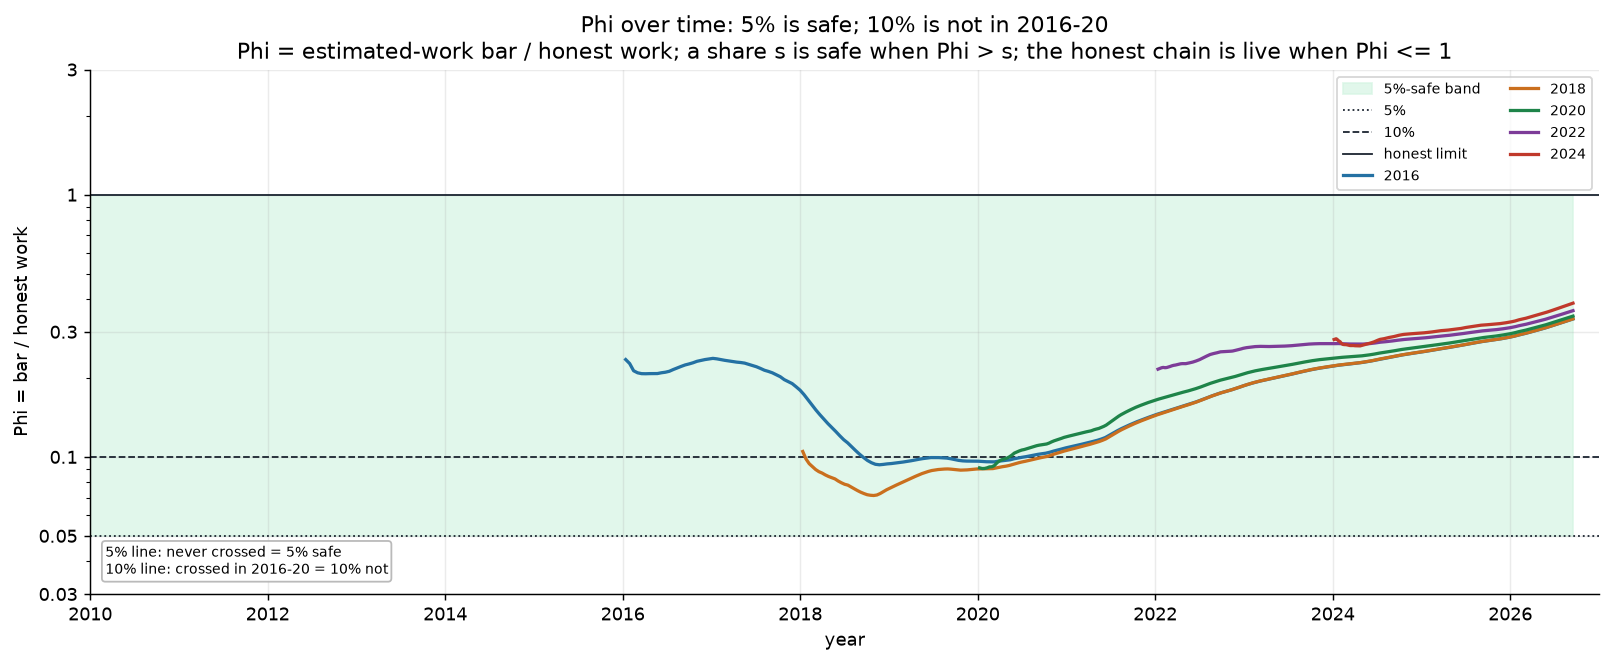
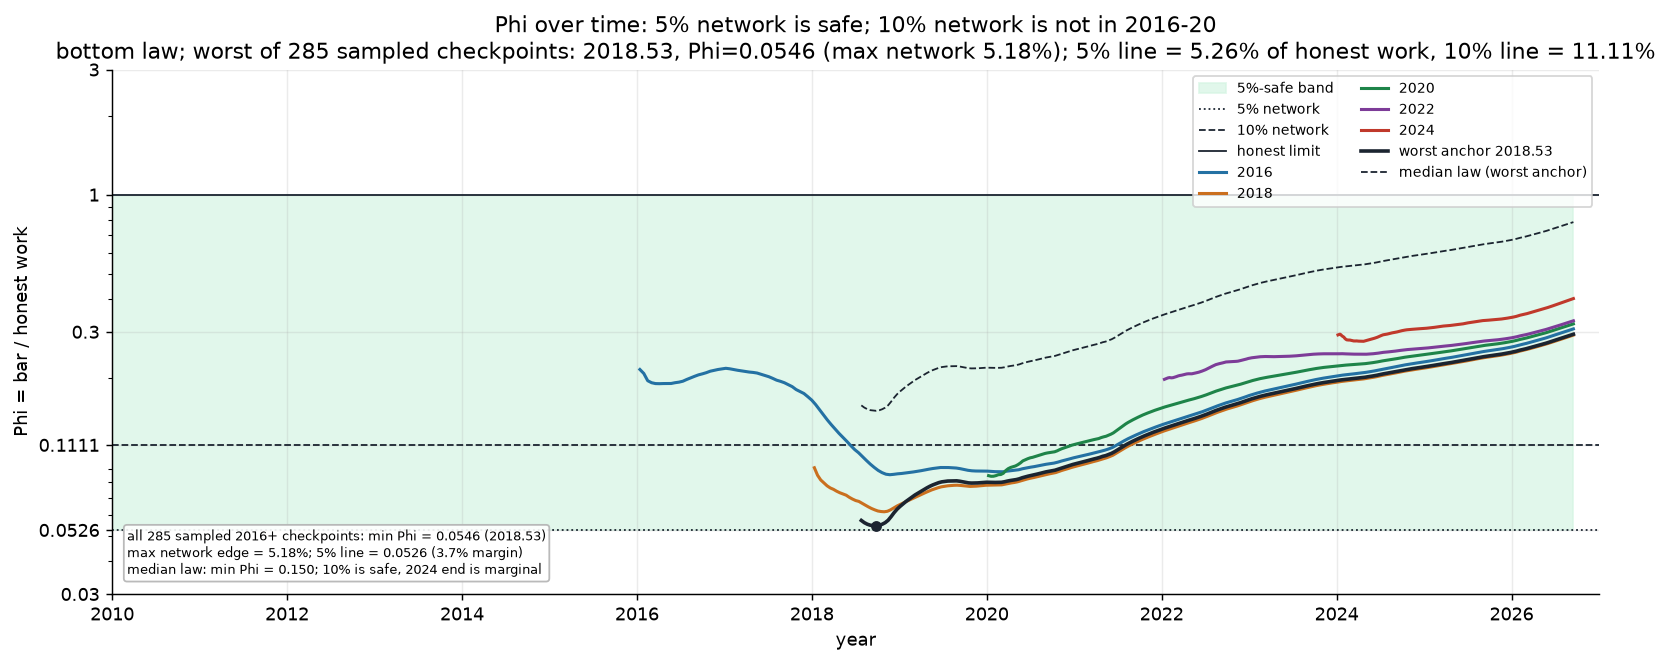
Rewrite around the 5% power-law estimated-work rule
- bar(T)=max(100, r0*ĥ(T)); Phi=bar/honest
- all-checkpoint 2016+ scan: 5% network is safe with a 3.7% margin;
  6% is not safe; 10% is bottom-law only; median-law sensitivity included
- 5% energy/opportunity cost and power-law hashrate/history figures
- ASCII setup; simplify README/research; remove obsolete experiments/figures

diff --git a/research/estimated_work_history.py b/research/estimated_work_history.py
@@ -1,8 +1,12 @@
 #!/usr/bin/env python3
 """Phi over the whole history from selected checkpoints.
 
-The 5%-safe band is 0.05 < Phi <= 1.  The 5% path stays inside it; the 10%
-path dips below 0.10 in 2018-2020.
+The network-share lines are honest-work lines:
+    s network -> s/(1-s) of honest work.
+So 5% network = 0.0526 and 10% network = 0.1111 on this axis.
+
+The thin dark line is the worst of all sampled 2016+ checkpoints; the dashed
+line is the median-law version of that worst anchor.
 
 Outputs figures/estimated_work_history.png.
 """
@@ -13,6 +17,8 @@ from figs import BLUE, GREEN, INK, ORANGE, PURPLE, RED
 NOW = M.BTC.t1
 POINTS = ((2016, BLUE), (2018, ORANGE), (2020, GREEN),
           (2022, PURPLE), (2024, RED))
+H5 = M.network_share_to_honest(0.05)
+H10 = M.network_share_to_honest(0.10)
 
 
 def anchor(year):
@@ -25,38 +31,72 @@ def year_of(t):
     return 2009 + M.BTC.x(t)
 
 
+def all_scan():
+    """Worst Phi and its anchor across all sampled 2016+ checkpoints."""
+    best = (float("inf"), None, None)
+    for r in M.BTC.rows:
+        t0 = r[1]
+        if year_of(t0) < 2016 or t0 >= NOW - 86400:
+            continue
+        for k in range(1, 80):
+            T = (NOW - t0) * k / 80
+            p = M.phi_est(t0, T)
+            if p < best[0]:
+                best = (p, t0, T)
+    return best
+
+
 def fig():
+    worst, wt0, wT = all_scan()
     fig, ax = figs.plt.subplots(figsize=(12.5, 5.2))
-    ax.fill_between([year_of(t) for t in M.BTC.t], 0.05, 1.0,
+    ax.fill_between([year_of(t) for t in M.BTC.t], H5, 1.0,
                     color=figs.SAFE, alpha=0.7, zorder=0,
                     label="5%-safe band")
-    ax.axhline(0.05, color=INK, lw=1.0, ls=":", label="5%")
-    ax.axhline(0.10, color=INK, lw=1.0, ls="--", label="10%")
+    ax.axhline(H5, color=INK, lw=1.0, ls=":", label="5% network")
+    ax.axhline(H10, color=INK, lw=1.0, ls="--", label="10% network")
     ax.axhline(1.0, color=INK, lw=1.0, ls="-", label="honest limit")
 
     for yr, c in POINTS:
         t0 = anchor(yr)
-        Ts = [k * (NOW - t0) / 240 for k in range(0, 241)]
+        Ts = [k * (NOW - t0) / 240 for k in range(1, 241)]
         xs = [year_of(t0 + T) for T in Ts]
         ys = [M.phi_est(t0, T) for T in Ts]
-        ax.plot(xs, ys, color=c, lw=1.8, zorder=3, label=str(yr))
+        ax.plot(xs, ys, color=c, lw=1.7, zorder=3, label=str(yr))
+
+    # worst sampled anchor
+    Ts = [k * (NOW - wt0) / 240 for k in range(1, 241)]
+    ax.plot([year_of(wt0 + T) for T in Ts],
+            [M.phi_est(wt0, T) for T in Ts],
+            color=INK, lw=2.0, zorder=4,
+            label=f"worst anchor {year_of(wt0):.2f}")
+    ax.plot([year_of(wt0 + wT)], [worst], "o", color=INK, ms=5, zorder=6)
+    # median-law version of the same anchor
+    ax.plot([year_of(wt0 + T) for T in Ts],
+            [M.phi_est_median(wt0, T) for T in Ts],
+            color=INK, lw=1.0, ls="--", zorder=2,
+            label="median law (worst anchor)")
 
     ax.set_yscale("log")
     ax.set_ylim(0.03, 3)
-    ax.set_yticks([0.03, 0.05, 0.1, 0.3, 1, 3])
-    ax.set_yticklabels(["0.03", "0.05", "0.1", "0.3", "1", "3"])
+    ax.set_yticks([0.03, H5, H10, 0.3, 1, 3])
+    ax.set_yticklabels(["0.03", "0.0526", "0.1111", "0.3", "1", "3"])
     ax.set_xlim(2010, 2027)
     ax.set_xlabel("year")
     ax.set_ylabel("Phi = bar / honest work")
-    ax.set_title("Phi over time: 5% is safe; 10% is not in 2016-20\n"
-                 "Phi = estimated-work bar / honest work; a share s is safe when Phi > s; "
-                 "the honest chain is live when Phi <= 1")
-    ax.legend(fontsize=8, loc="upper right", ncol=2)
+    ax.set_title("Phi over time: 5% network is safe; 10% network is not in 2016-20\n"
+                 "bottom law; worst of 285 sampled checkpoints: "
+                 f"{year_of(wt0):.2f}, Phi={worst:.4f} "
+                 f"(max network {100*worst/(1+worst):.2f}%); "
+                 "5% line = 5.26% of honest work, 10% line = 11.11%")
+    ax.legend(fontsize=7.5, loc="upper right", ncol=2)
     ax.grid(alpha=0.25)
     ax.text(0.01, 0.03,
-            "5% line: never crossed = 5% safe\n"
-            "10% line: crossed in 2016-20 = 10% not",
-            transform=ax.transAxes, va="bottom", fontsize=7.5,
+            f"all 285 sampled 2016+ checkpoints: min Phi = {worst:.4f} "
+            f"({year_of(wt0):.2f})\n"
+            f"max network edge = {100*worst/(1+worst):.2f}%; "
+            "5% line = 0.0526 (3.7% margin)\n"
+            "median law: min Phi = 0.150; 10% is safe, 2024 end is marginal",
+            transform=ax.transAxes, va="bottom", fontsize=7.2,
             bbox=dict(boxstyle="round,pad=0.25", fc="white", ec="0.7",
                       alpha=0.9))
     figs.save(fig, "estimated_work_history.png")

diff --git a/research/cost_5pct.py b/research/cost_5pct.py
@@ -1,15 +1,23 @@
 #!/usr/bin/env python3
-"""What a 5% attacker costs per year: work cost + foregone profit."""
+"""5% attacker: energy cost vs block rewards foregone.
+
+Assumptions: 25 J/TH and $0.05/kWh, capex excluded.  The 5% share of the
+network's annual energy is the work cost; the 5% share of annual block rewards
+is the opportunity cost.  The difference is the profit foregone.  The bar
+requires more than 5% of network work, so this 5% spend cannot create it.
+"""
 import bisect
 import json
 
 import model as M
 import figs
-from figs import GREEN, INK, ORANGE
+from figs import GREEN, ORANGE
 
 Y = M.YEAR
 NOW = M.BTC.t1
 SHARE = 0.05
+J_PER_TH = 25.0
+USD_PER_KWH = 0.05
 PRICES = [(p["x"], p["y"]) for p in
           json.load(open("data/btc_price_raw.json"))["values"] if p["y"] > 0]
 PT = [p[0] for p in PRICES]
@@ -37,53 +45,48 @@ def price_at(t):
     return PRICES[i][1]
 
 
-def hp(t):
-    return reward(t) * price_at(t) / M.BTC.w(t)
-
-
-def annual_work_cost(t0):
-    """5% of the network's annual hash cost at the cheapest hash price."""
-    ts = [t0 + i * 86400 for i in range(0, int((NOW - t0) / 86400) + 1)] + [NOW]
-    mn = min(hp(t) for t in ts)
-    return SHARE * (M.BTC.w(t0) / 600.0) * Y * mn / 1e9
-
-
-def annual_rewards(t0):
-    """5% of the block rewards at the checkpoint, USD/year."""
-    return SHARE * reward(t0) * price_at(t0) * 144 * 365 / 1e9
+def annual_stats(t0):
+    t1 = min(t0 + Y, NOW)
+    n = 80
+    ts = [t0 + k * (t1 - t0) / n for k in range(n + 1)]
+    h = sum(M.actual_hashrate(t) for t in ts) / len(ts)
+    # 1 EH/s = 1e6 TH/s; 25 J/TH = 25 MW per EH/s; 8760 h; $0.05/kWh
+    energy = SHARE * h * 1e6 * J_PER_TH * 8760.0 / 1000.0 * USD_PER_KWH / 1e9
+    rev = SHARE * sum(reward(t) * price_at(t) * 144 * 365
+                      for t in ts) / len(ts) / 1e9
+    return energy, rev
 
 
 def table():
-    print("5% attacker, USD/year (billions)")
-    print("%-6s %10s %12s %10s" % ("year", "work", "rewards", "net"))
-    tw = tr = 0.0
+    print("5% attacker, USD/year (billions); 25 J/TH, $0.05/kWh, capex excluded")
+    print("%-6s %10s %12s %10s" % ("year", "energy", "rewards", "profit"))
+    te = tr = 0.0
     rows = []
     for yr in range(2016, 2026):
-        t0 = anchor(yr)
-        w, r = annual_work_cost(t0), annual_rewards(t0)
-        tw += w
+        e, r = annual_stats(anchor(yr))
+        te += e
         tr += r
-        rows.append((yr, w, r, r - w))
-        print("%-6d %9.3fB %11.3fB %9.3fB" % (yr, w, r, r - w))
-    print("%-6s %9.3fB %11.3fB %9.3fB"
-          % ("total", tw, tr, tr - tw))
+        rows.append((yr, e, r, r - e))
+        print("%-6d %9.3fB %11.3fB %9.3fB" % (yr, e, r, r - e))
+    print("%-6s %9.3fB %11.3fB %9.3fB" % ("total", te, tr, tr - te))
     return rows
 
 
 def fig():
     rows = table()
     years = [r[0] for r in rows]
-    w = [r[1] for r in rows]
+    e = [r[1] for r in rows]
     net = [r[3] for r in rows]
 
     fig, ax = figs.plt.subplots(figsize=(12.0, 5.4))
-    ax.bar(years, w, color=GREEN, label="work cost (energy/hash)")
-    ax.bar(years, net, bottom=w, color=ORANGE,
-           label="foregone profit (rewards - work)")
+    ax.bar(years, e, color=GREEN, label="energy cost (25 J/TH, $0.05/kWh)")
+    ax.bar(years, net, bottom=e, color=ORANGE,
+           label="foregone profit (rewards - energy)")
     ax.set_ylim(0, 0.9)
     ax.set_xlabel("checkpoint year")
     ax.set_ylabel("USD billions/year")
-    ax.set_title("5% attacker: work + foregone profit; the bar needs >5% of network work")
+    ax.set_title("5% attacker: energy cost + foregone profit = rewards foregone; "
+                 "the bar needs >5% of network work")
     ax.legend(fontsize=8, loc="upper left")
     ax.grid(alpha=0.25, axis="y")
     figs.save(fig, "cost_5pct.png")

diff --git a/research/model.py b/research/model.py
@@ -29,6 +29,7 @@ GENESIS = 1231006505          # 2009-01-03 18:15:05 UTC
 YEAR = 31557600.0             # Julian year, seconds
 TARGET = 600.0                # seconds per block
 WORK = 2 ** 32                # hashes per unit difficulty per block
+MATURITY = 100               # minimum bar (checkpoint blocks)
 
 # Price laws and the dbtc price -> difficulty conversion.
 PRICE_A_BOTTOM = -17.432
@@ -39,6 +40,7 @@ DBTC_D0 = 54621616002.15709
 DBTC_P0 = 455.91017420322737
 DBTC_B = 0.6734733015588255
 PRICE_P = PRICE_N_BOTTOM / DBTC_B
+PRICE_P_MED = PRICE_N_MEDIAN / DBTC_B
 
 
 def load(chain):
@@ -108,29 +110,50 @@ def estimated_hashrate(t, a=PRICE_A_BOTTOM, n=PRICE_N_BOTTOM):
 
 
 def actual_hashrate(t):
-    """Realised hashrate from the spine, EH/s."""
-    return BTC.w(t) / TARGET / 1e18
+    """Realised hashrate over the sampled period containing t, EH/s."""
+    i = min(max(bisect_right(BTC.t, t) - 1, 0), BTC.np - 1)
+    dt = BTC.t[i + 1] - BTC.t[i]
+    dh = BTC.h[i + 1] - BTC.h[i]
+    return dh * BTC.d[i] * WORK / dt / 1e18
 
 
 def anchor_r0(t0):
-    """Bottom-law estimated hashrate / actual hashrate at the checkpoint."""
+    """Bottom-law estimated hashrate / realised hashrate at the checkpoint."""
     return estimated_hashrate(t0) / actual_hashrate(t0)
 
 
-def price_bar(t0, T):
+def anchor_r0_median(t0):
+    return estimated_hashrate(t0, PRICE_A_MEDIAN, PRICE_N_MEDIAN) / actual_hashrate(t0)
+
+
+def price_bar(t0, T, p=PRICE_P):
     """Cumulative power-law work since t0, in checkpoint blocks."""
     a0 = BTC.x(t0)
     x = T / (YEAR * a0)
-    return a0 * YEAR / (TARGET * (PRICE_P + 1.0)) * \
-        ((1.0 + x) ** (PRICE_P + 1.0) - 1.0)
+    return a0 * YEAR / (TARGET * (p + 1.0)) * \
+        ((1.0 + x) ** (p + 1.0) - 1.0)
 
 
 def est_work_bar(t0, T):
-    """The estimated-work bar: r0 * cumulative power-law work."""
-    return anchor_r0(t0) * price_bar(t0, T)
+    """The estimated-work bar: max(MATURITY, r0 * cumulative power-law work)."""
+    return max(MATURITY, anchor_r0(t0) * price_bar(t0, T))
+
+
+def est_work_bar_median(t0, T):
+    return max(MATURITY, anchor_r0_median(t0) * price_bar(t0, T, PRICE_P_MED))
 
 
 def phi_est(t0, T):
     """Estimated-work bar / honest work.  <=1 live, >s keeps an s-fork out."""
     h = BTC.work(t0, t0 + T) / BTC.w(t0)
     return est_work_bar(t0, T) / h if h > 0 else float("inf")
+
+
+def phi_est_median(t0, T):
+    h = BTC.work(t0, t0 + T) / BTC.w(t0)
+    return est_work_bar_median(t0, T) / h if h > 0 else float("inf")
+
+
+def network_share_to_honest(s):
+    """An s share of the network is s/(1-s) of honest work."""
+    return s / (1.0 - s)

diff --git a/research/estimated_work_backtest.py b/research/estimated_work_backtest.py
@@ -1,0 +1,41 @@
+#!/usr/bin/env python3
+"""All-checkpoint scan: worst Phi, the implied network-share edge, median law."""
+import model as M
+
+NOW = M.BTC.t1
+
+
+def year_of(t):
+    return 2009 + M.BTC.x(t)
+
+
+def main():
+    best = (float("inf"), None, None)
+    best_med = (float("inf"), None, None)
+    n = 0
+    for r in M.BTC.rows:
+        t0 = r[1]
+        if year_of(t0) < 2016 or t0 >= NOW - 86400:
+            continue
+        n += 1
+        for k in range(1, 80):
+            T = (NOW - t0) * k / 80
+            p = M.phi_est(t0, T)
+            pm = M.phi_est_median(t0, T)
+            if p < best[0]:
+                best = (p, t0, T)
+            if pm < best_med[0]:
+                best_med = (pm, t0, T)
+    p, t0, T = best
+    smax = p / (1.0 + p)
+    print(f"sampled 2016+ checkpoints: {n}")
+    print(f"bottom law: min Phi {p:.5f} at {year_of(t0):.3f}, T={T/86400:.1f} d")
+    print(f"  max network share = {100*smax:.3f}%")
+    print(f"  5% network line = {100*M.network_share_to_honest(0.05):.3f}% of honest")
+    print(f"  10% network line = {100*M.network_share_to_honest(0.10):.3f}% of honest")
+    print(f"median law: min Phi {best_med[0]:.5f} at "
+          f"{year_of(best_med[1]):.3f}, T={best_med[2]/86400:.1f} d")
+
+
+if __name__ == "__main__":
+    main()

diff --git a/research/run_all.py b/research/run_all.py
@@ -3,7 +3,8 @@
 import runpy
 import sys
 
-for mod in ("estimated_hashrate", "estimated_work_history", "cost_5pct"):
+for mod in ("estimated_hashrate", "estimated_work_history",
+            "estimated_work_backtest", "cost_5pct"):
     print(f"\n================ {mod} ================")
     sys.stdout.flush()
     runpy.run_module(mod, run_name="__main__")

diff --git a/research/README.md b/research/README.md
@@ -9,9 +9,10 @@ the model and the scripts that produce the figures it uses.
 |---|---|---|
 | `model.py` | — | spine, chainwork, power-law hashrate, estimated-work bar, $\Phi$ |
 | `estimated_hashrate.py` | `estimated_hashrate.png` | actual vs power-law hashrate, 2010–2026 |
-| `estimated_work_history.py` | `estimated_work_history.png` | $\Phi$ from selected checkpoints over the whole history; 5% safe, 10% not in 2018–20 |
-| `cost_5pct.py` | `cost_5pct.png` | 5% attacker: work cost + foregone profit |
-| `run_all.py` | — | runs the three scripts |
+| `estimated_work_history.py` | `estimated_work_history.png` | $\Phi$ over the whole history; selected anchors, worst anchor, median law |
+| `estimated_work_backtest.py` | — | all-checkpoint scan: min $\Phi$, network edge, median |
+| `cost_5pct.py` | `cost_5pct.png` | 5% attacker: energy cost + foregone profit |
+| `run_all.py` | — | runs the four scripts |
 
 `data/BTC.json` is the sampled header spine (one row per 2016-block period);
 `data/btc_price_raw.json` is the price history. `figs.py` holds the shared
